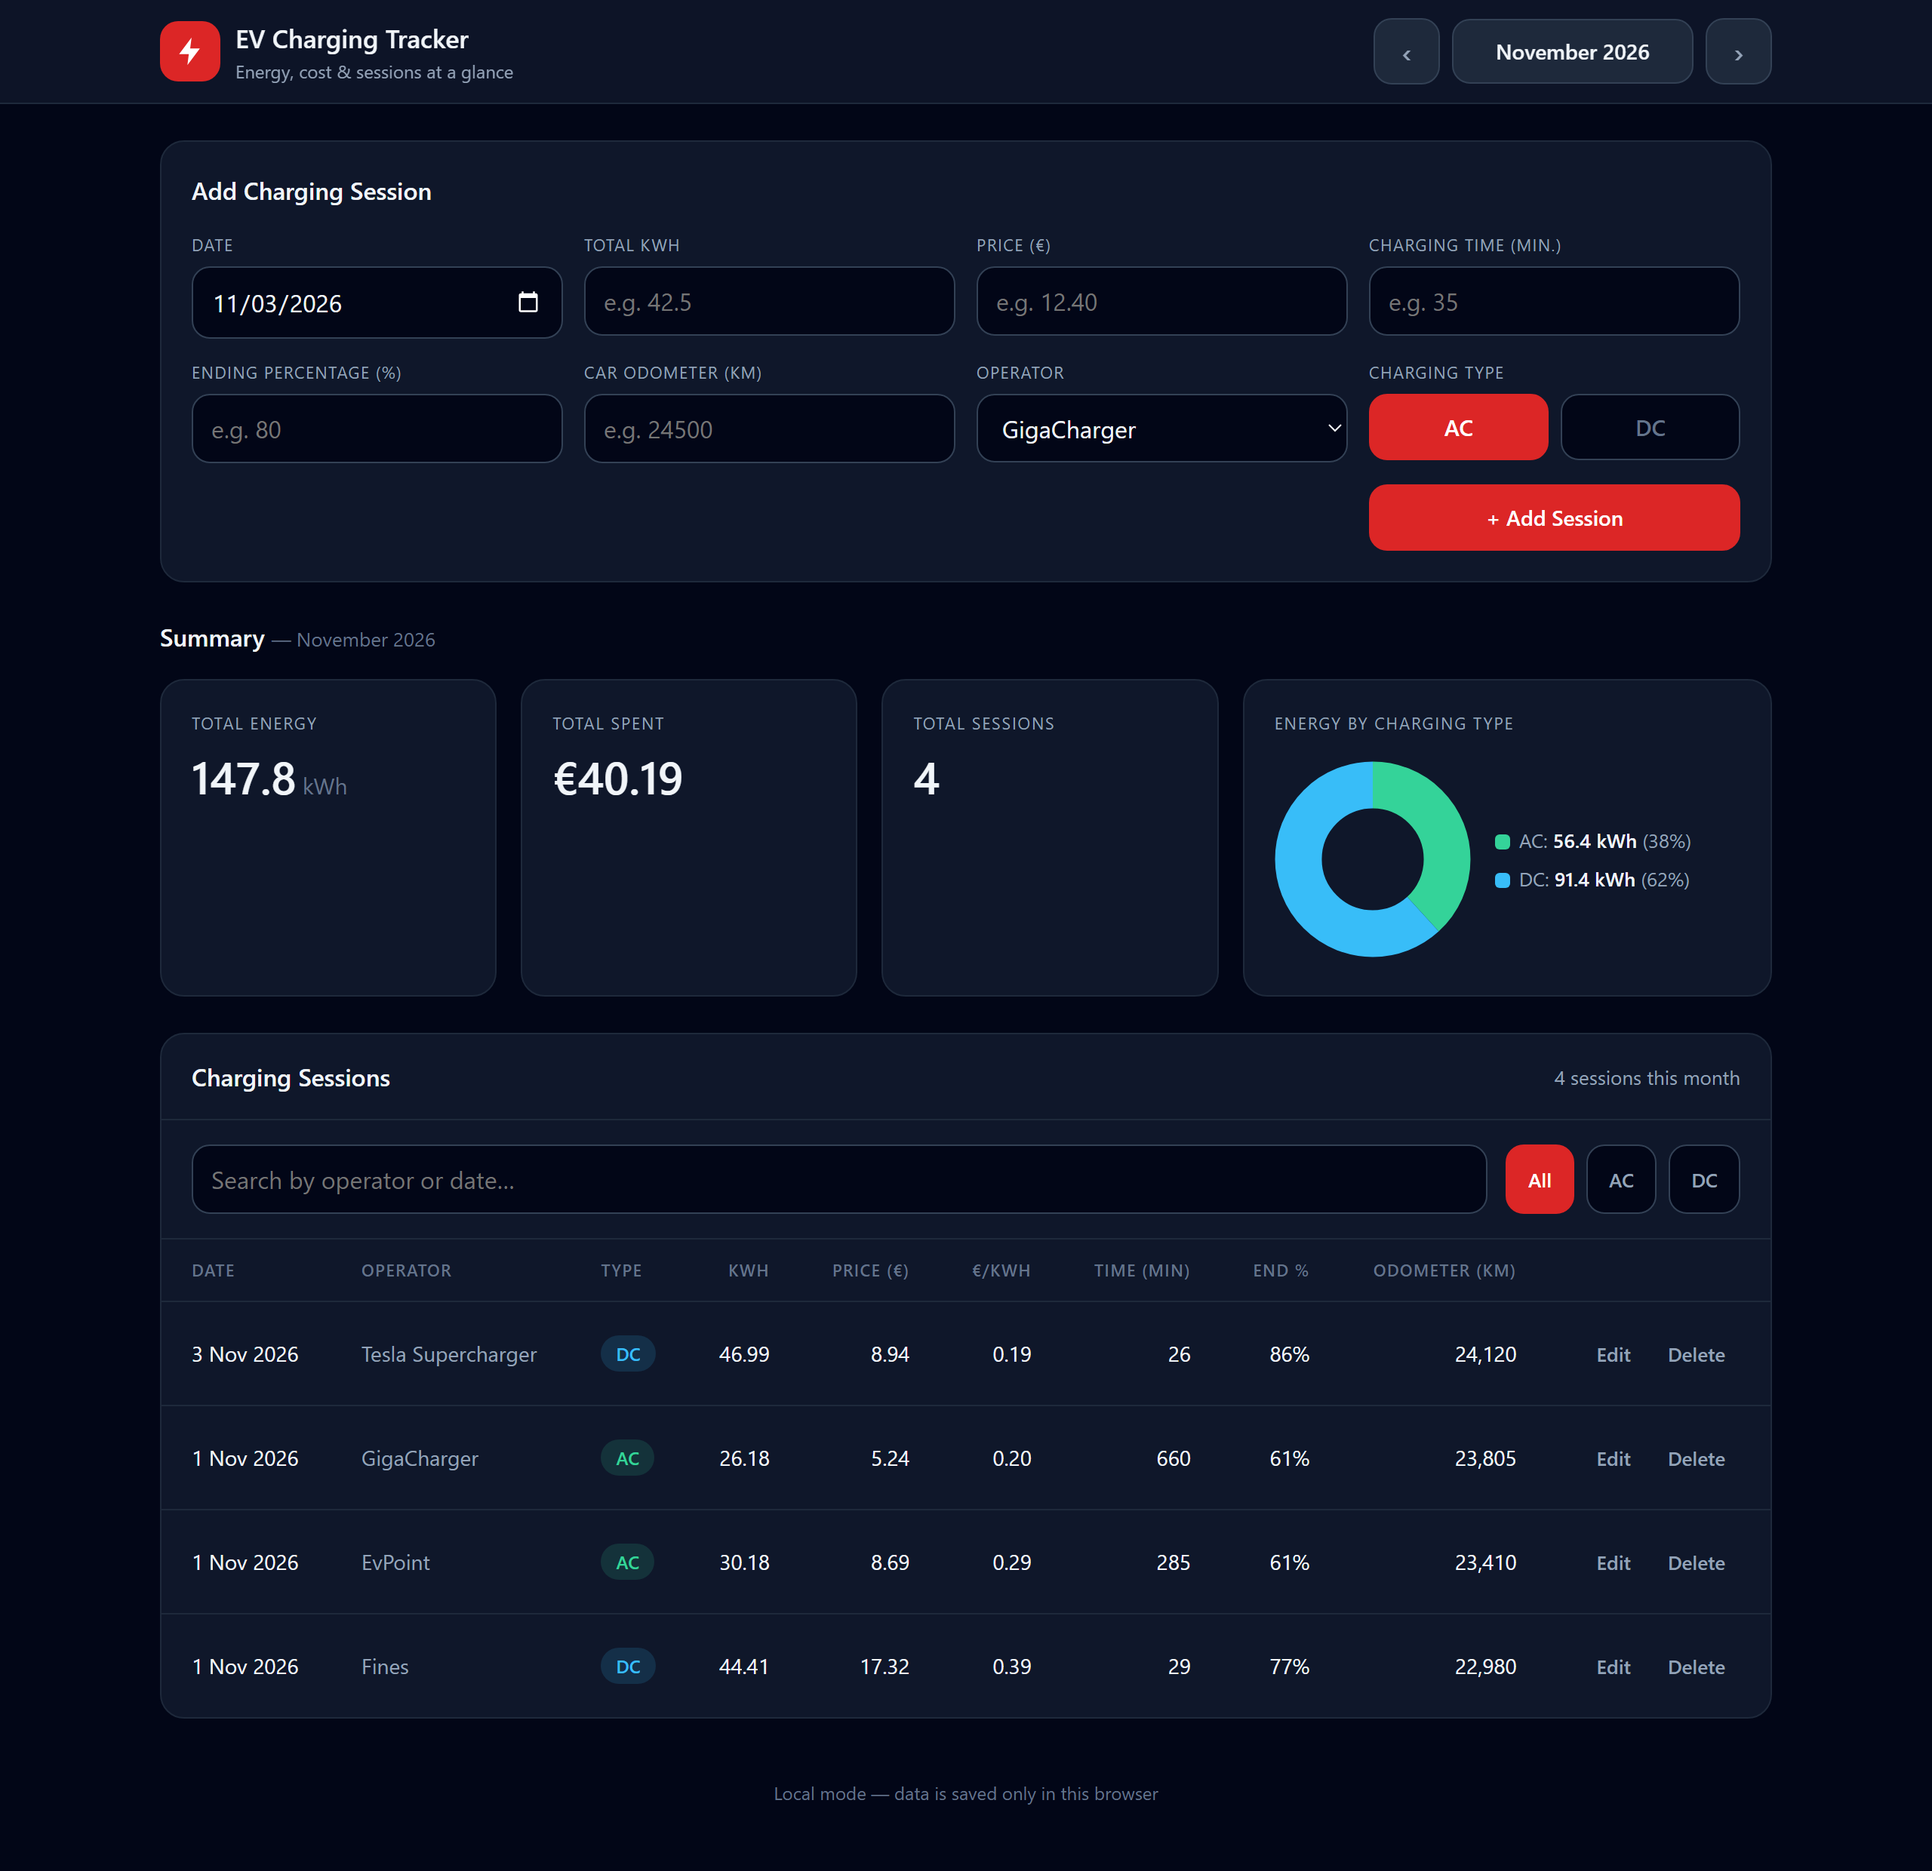
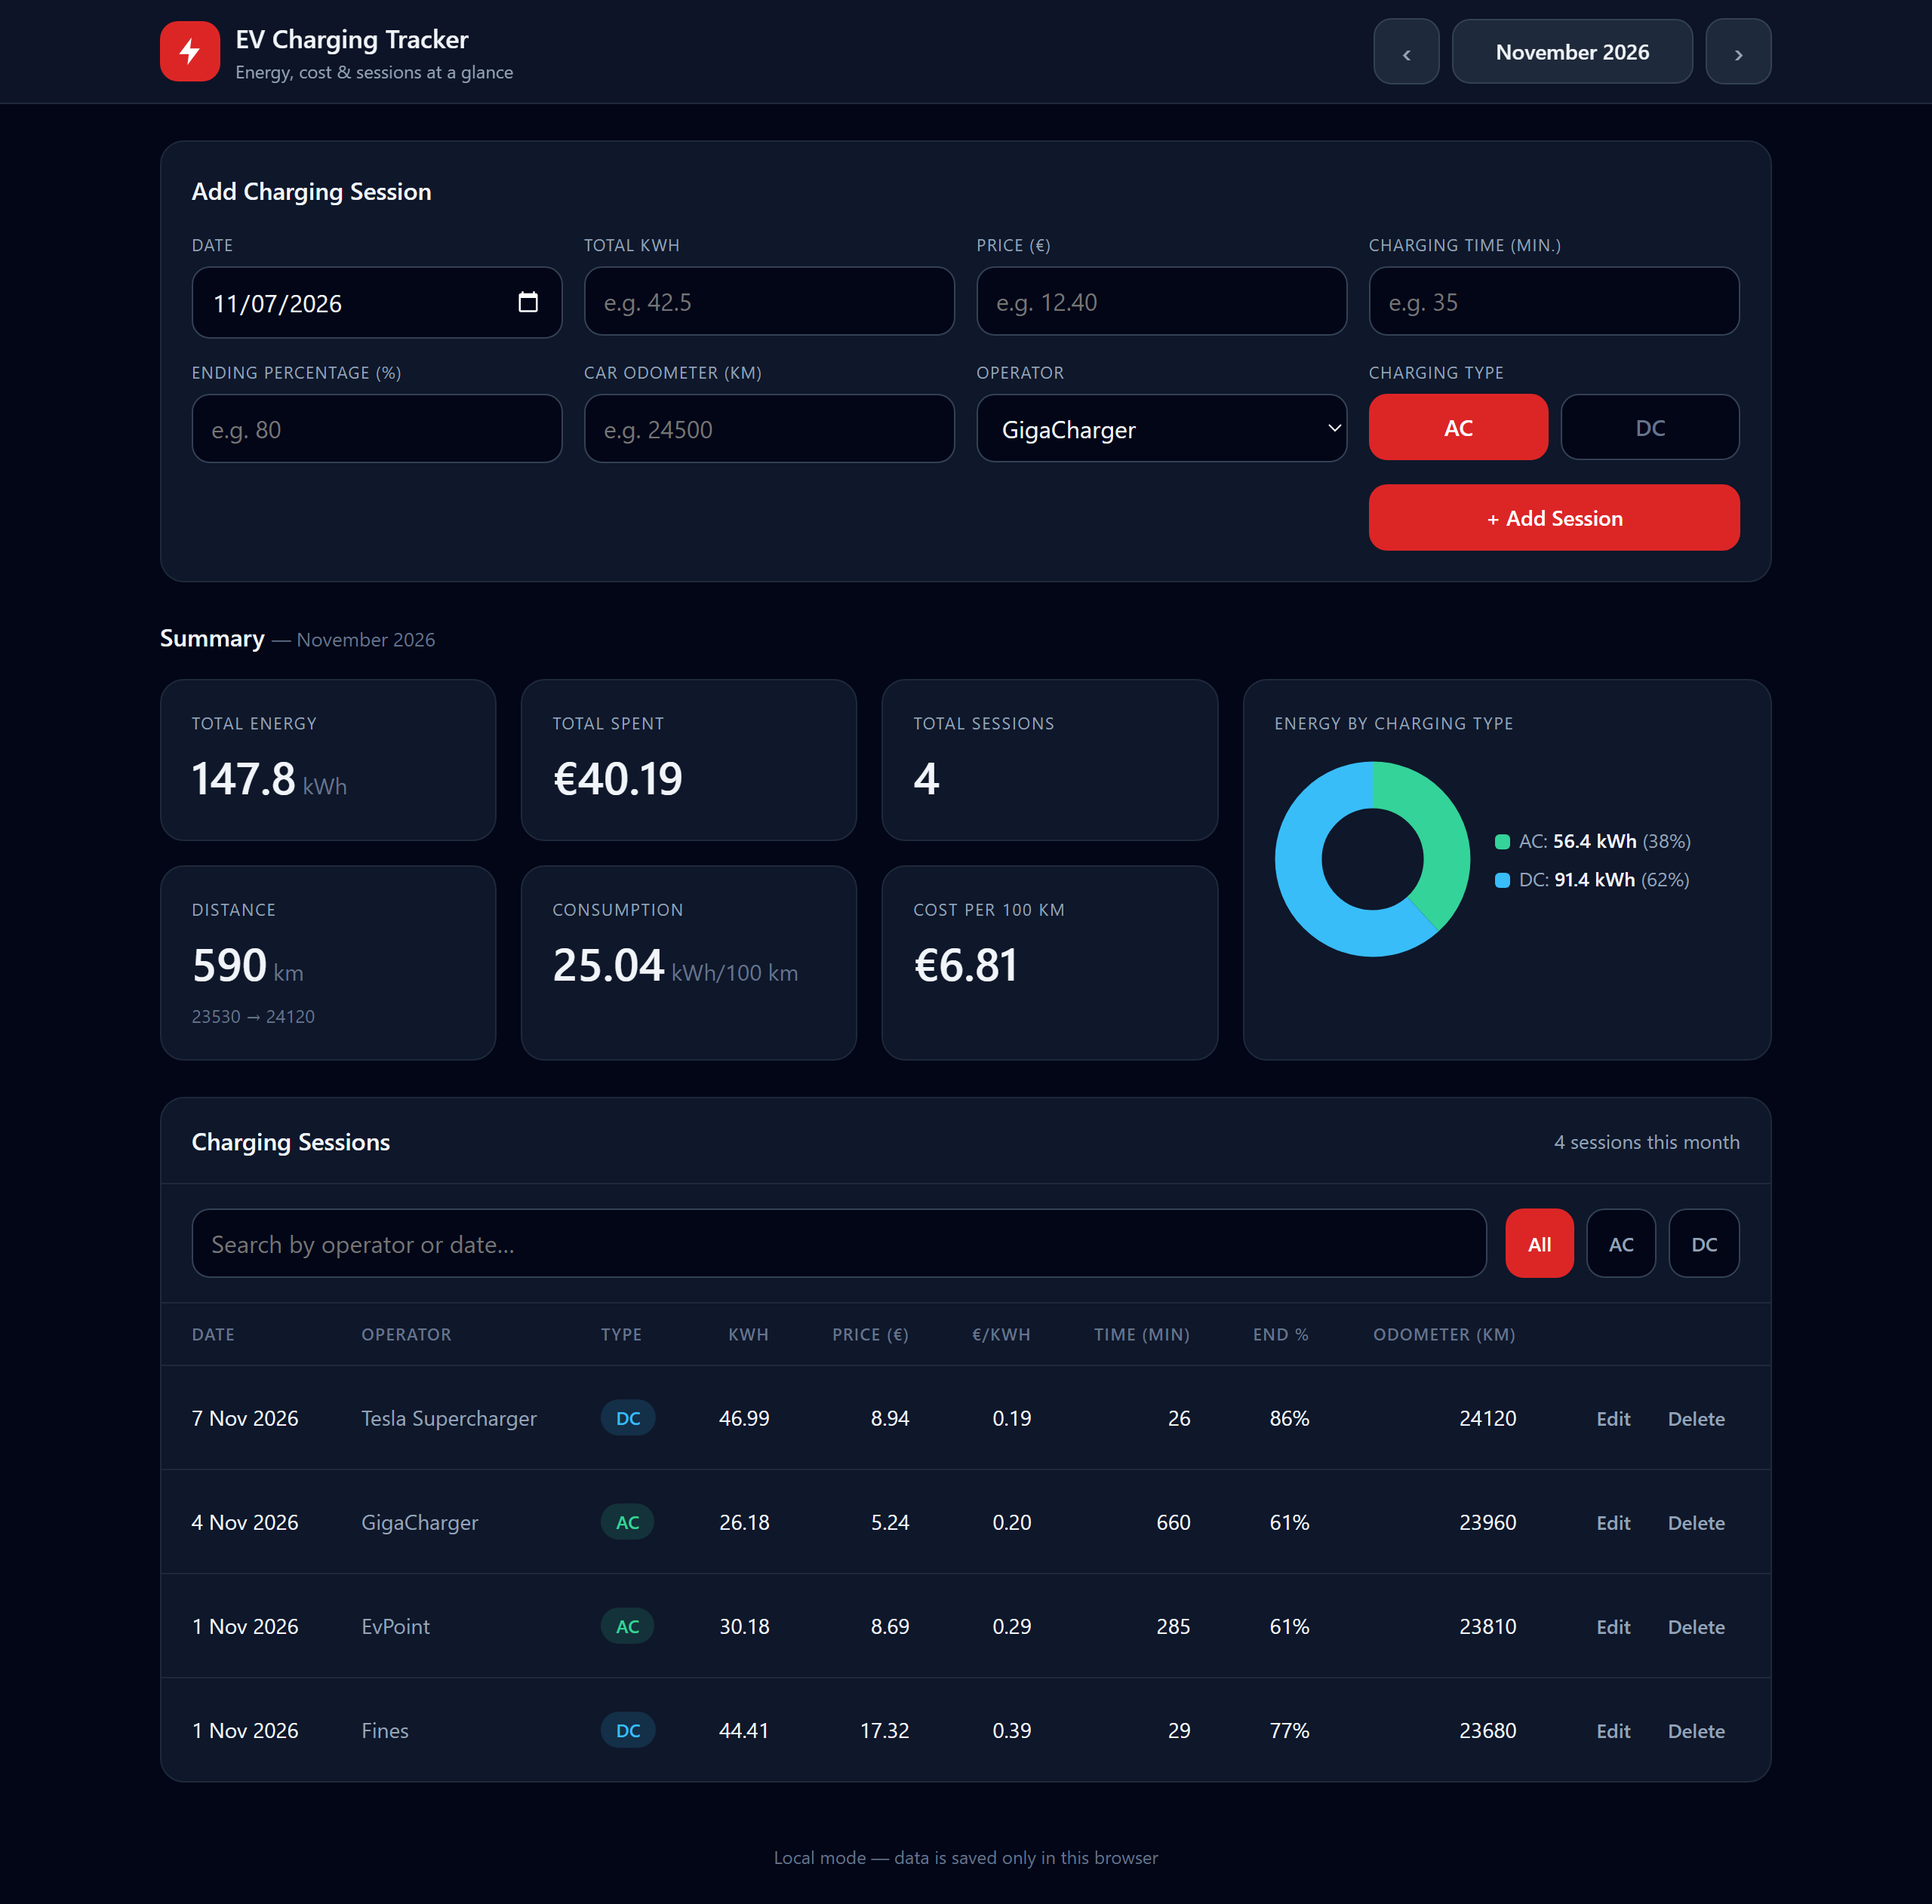
Show monthly distance, consumption and cost per 100 km
Worked out like the monthly tables in the sheet: from the odometer at the last
session of the previous month to the last session of the selected month.
Sample data gets a session in the previous month so local mode shows them too.
README features and screenshots are updated.

diff --git a/dist/Index.html b/dist/Index.html
@@ -199,6 +199,7 @@
   .stat .label { margin-bottom: 4px; }
   .stat .value { font-size: 30px; font-weight: 600; }
   .stat .unit { font-size: 15px; font-weight: 400; color: var(--faint); margin-left: 4px; }
+  .stat .sub { margin-top: 4px; font-size: 12px; color: var(--faint); }
 
   .chart-card .label { margin: 0 0 12px; }
   .chart-body { display: flex; align-items: center; gap: 16px; min-height: 140px; }
@@ -294,8 +295,14 @@
     .header-row { justify-content: center; }
     .month-nav { width: 100%; }
     .month-label { flex: 1; }
-    .form-grid, .stats { grid-template-columns: 1fr; }
+    .form-grid { grid-template-columns: 1fr; }
     .span-2 { grid-column: auto; }
+
+    /* Six summary cards: two per row keeps them short enough to see at a glance */
+    .stats { grid-template-columns: repeat(2, 1fr); gap: 12px; }
+    .stat { padding: 16px; }
+    .stat .value { font-size: 24px; }
+    .stat .unit { display: block; margin-left: 0; font-size: 13px; }
   }
 </style>
 </head>
@@ -392,6 +399,19 @@
         <div class="card stat">
           <p class="label">Total Sessions</p>
           <p class="value" id="stat-count">0</p>
+        </div>
+        <div class="card stat">
+          <p class="label">Distance</p>
+          <p class="value"><span id="stat-km">—</span><span class="unit">km</span></p>
+          <p class="sub" id="stat-km-range"></p>
+        </div>
+        <div class="card stat">
+          <p class="label">Consumption</p>
+          <p class="value"><span id="stat-kwh-100">—</span><span class="unit">kWh/100 km</span></p>
+        </div>
+        <div class="card stat">
+          <p class="label">Cost per 100 km</p>
+          <p class="value" id="stat-cost-100">—</p>
         </div>
       </div>
       <div class="card chart-card">
@@ -510,7 +530,7 @@
       ({ '&': '&amp;', '<': '&lt;', '>': '&gt;', '"': '&quot;', "'": '&#39;' }[c]));
   }
 
-  // ---------- Sample data: all in the current month, only used on first run ----------
+  // ---------- Sample data: the current month plus one session before it, only used on first run ----------
 
   function buildSamples() {
     const today = new Date();
@@ -518,11 +538,14 @@
       const d = new Date(today.getFullYear(), today.getMonth(), Math.max(1, today.getDate() - offset));
       return toISO(d);
     };
+    const lastDayOfPreviousMonth = toISO(new Date(today.getFullYear(), today.getMonth(), 0));
 
     return [
-      { id: 1, date: dayInMonth(9), operator: 'Fines',              type: 'DC', kwh: 44.41, price: 17.32, time: 29,  percent: 77, odometer: 22980 },
-      { id: 2, date: dayInMonth(6), operator: 'EvPoint',            type: 'AC', kwh: 30.18, price: 8.69,  time: 285, percent: 61, odometer: 23410 },
-      { id: 3, date: dayInMonth(3), operator: 'GigaCharger',        type: 'AC', kwh: 26.18, price: 5.24,  time: 660, percent: 61, odometer: 23805 },
+      // The starting point for this month's distance and consumption
+      { id: 0, date: lastDayOfPreviousMonth, operator: 'GigaCharger', type: 'AC', kwh: 28.4, price: 5.68, time: 610, percent: 80, odometer: 23530 },
+      { id: 1, date: dayInMonth(9), operator: 'Fines',              type: 'DC', kwh: 44.41, price: 17.32, time: 29,  percent: 77, odometer: 23680 },
+      { id: 2, date: dayInMonth(6), operator: 'EvPoint',            type: 'AC', kwh: 30.18, price: 8.69,  time: 285, percent: 61, odometer: 23810 },
+      { id: 3, date: dayInMonth(3), operator: 'GigaCharger',        type: 'AC', kwh: 26.18, price: 5.24,  time: 660, percent: 61, odometer: 23960 },
       { id: 4, date: dayInMonth(0), operator: 'Tesla Supercharger', type: 'DC', kwh: 46.99, price: 8.94,  time: 26,  percent: 86, odometer: 24120 }
     ];
   }
@@ -664,9 +687,21 @@
     return b.date.localeCompare(a.date) || (useSheet ? a.id - b.id : b.id - a.id);
   }
 
+  const monthPrefix = () => `${viewYear}-${String(viewMonth + 1).padStart(2, '0')}-`;
+
   function sessionsInMonth() {
-    const prefix = `${viewYear}-${String(viewMonth + 1).padStart(2, '0')}-`;
-    return sessions.filter(s => s.date.startsWith(prefix));
+    return sessions.filter(s => s.date.startsWith(monthPrefix()));
+  }
+
+  // Distance for the selected month, the same way as the monthly tables in the sheet: from the
+  // odometer at the last session before this month to the odometer at the last session in it.
+  // Null when there is no earlier session to start from (the first month).
+  function monthDistance(monthSessions) {
+    const last = [...monthSessions].sort(newestFirst)[0];
+    const before = sessions.filter(s => s.date < monthPrefix() + '01').sort(newestFirst)[0];
+    if (!last || !before || last.odometer <= before.odometer) return null;
+
+    return { start: before.odometer, end: last.odometer, km: last.odometer - before.odometer };
   }
 
   function visibleSessions(monthSessions) {
@@ -689,6 +724,15 @@
     $('stat-kwh').textContent = fmtKwh(kwh);
     $('stat-cost').textContent = fmtMoney.format(cost);
     $('stat-count').textContent = monthSessions.length;
+
+    const dist = monthDistance(monthSessions);
+    const per100 = amount => round2(amount / dist.km * 100).toFixed(2);
+    $('stat-km').textContent = dist ? dist.km : '—';
+    $('stat-km-range').textContent = dist
+      ? `${dist.start} → ${dist.end}`
+      : monthSessions.length ? 'Needs a session from an earlier month' : '';
+    $('stat-kwh-100').textContent = dist ? per100(kwh) : '—';
+    $('stat-cost-100').textContent = dist ? '€' + per100(cost) : '—';
   }
 
   // Pie chart drawn as SVG circle segments, so the app needs no internet connection

diff --git a/src/script.js b/src/script.js
@@ -67,7 +67,7 @@ function escapeHtml(str) {
     ({ '&': '&amp;', '<': '&lt;', '>': '&gt;', '"': '&quot;', "'": '&#39;' }[c]));
 }
 
-// ---------- Sample data: all in the current month, only used on first run ----------
+// ---------- Sample data: the current month plus one session before it, only used on first run ----------
 
 function buildSamples() {
   const today = new Date();
@@ -75,11 +75,14 @@ function buildSamples() {
     const d = new Date(today.getFullYear(), today.getMonth(), Math.max(1, today.getDate() - offset));
     return toISO(d);
   };
+  const lastDayOfPreviousMonth = toISO(new Date(today.getFullYear(), today.getMonth(), 0));
 
   return [
-    { id: 1, date: dayInMonth(9), operator: 'Fines',              type: 'DC', kwh: 44.41, price: 17.32, time: 29,  percent: 77, odometer: 22980 },
-    { id: 2, date: dayInMonth(6), operator: 'EvPoint',            type: 'AC', kwh: 30.18, price: 8.69,  time: 285, percent: 61, odometer: 23410 },
-    { id: 3, date: dayInMonth(3), operator: 'GigaCharger',        type: 'AC', kwh: 26.18, price: 5.24,  time: 660, percent: 61, odometer: 23805 },
+    // The starting point for this month's distance and consumption
+    { id: 0, date: lastDayOfPreviousMonth, operator: 'GigaCharger', type: 'AC', kwh: 28.4, price: 5.68, time: 610, percent: 80, odometer: 23530 },
+    { id: 1, date: dayInMonth(9), operator: 'Fines',              type: 'DC', kwh: 44.41, price: 17.32, time: 29,  percent: 77, odometer: 23680 },
+    { id: 2, date: dayInMonth(6), operator: 'EvPoint',            type: 'AC', kwh: 30.18, price: 8.69,  time: 285, percent: 61, odometer: 23810 },
+    { id: 3, date: dayInMonth(3), operator: 'GigaCharger',        type: 'AC', kwh: 26.18, price: 5.24,  time: 660, percent: 61, odometer: 23960 },
     { id: 4, date: dayInMonth(0), operator: 'Tesla Supercharger', type: 'DC', kwh: 46.99, price: 8.94,  time: 26,  percent: 86, odometer: 24120 }
   ];
 }
@@ -221,9 +224,21 @@ function newestFirst(a, b) {
   return b.date.localeCompare(a.date) || (useSheet ? a.id - b.id : b.id - a.id);
 }
 
+const monthPrefix = () => `${viewYear}-${String(viewMonth + 1).padStart(2, '0')}-`;
+
 function sessionsInMonth() {
-  const prefix = `${viewYear}-${String(viewMonth + 1).padStart(2, '0')}-`;
-  return sessions.filter(s => s.date.startsWith(prefix));
+  return sessions.filter(s => s.date.startsWith(monthPrefix()));
+}
+
+// Distance for the selected month, the same way as the monthly tables in the sheet: from the
+// odometer at the last session before this month to the odometer at the last session in it.
+// Null when there is no earlier session to start from (the first month).
+function monthDistance(monthSessions) {
+  const last = [...monthSessions].sort(newestFirst)[0];
+  const before = sessions.filter(s => s.date < monthPrefix() + '01').sort(newestFirst)[0];
+  if (!last || !before || last.odometer <= before.odometer) return null;
+
+  return { start: before.odometer, end: last.odometer, km: last.odometer - before.odometer };
 }
 
 function visibleSessions(monthSessions) {
@@ -246,6 +261,15 @@ function renderStats(monthSessions) {
   $('stat-kwh').textContent = fmtKwh(kwh);
   $('stat-cost').textContent = fmtMoney.format(cost);
   $('stat-count').textContent = monthSessions.length;
+
+  const dist = monthDistance(monthSessions);
+  const per100 = amount => round2(amount / dist.km * 100).toFixed(2);
+  $('stat-km').textContent = dist ? dist.km : '—';
+  $('stat-km-range').textContent = dist
+    ? `${dist.start} → ${dist.end}`
+    : monthSessions.length ? 'Needs a session from an earlier month' : '';
+  $('stat-kwh-100').textContent = dist ? per100(kwh) : '—';
+  $('stat-cost-100').textContent = dist ? '€' + per100(cost) : '—';
 }
 
 // Pie chart drawn as SVG circle segments, so the app needs no internet connection

diff --git a/src/index.html b/src/index.html
@@ -102,6 +102,19 @@
           <p class="label">Total Sessions</p>
           <p class="value" id="stat-count">0</p>
         </div>
+        <div class="card stat">
+          <p class="label">Distance</p>
+          <p class="value"><span id="stat-km">—</span><span class="unit">km</span></p>
+          <p class="sub" id="stat-km-range"></p>
+        </div>
+        <div class="card stat">
+          <p class="label">Consumption</p>
+          <p class="value"><span id="stat-kwh-100">—</span><span class="unit">kWh/100 km</span></p>
+        </div>
+        <div class="card stat">
+          <p class="label">Cost per 100 km</p>
+          <p class="value" id="stat-cost-100">—</p>
+        </div>
       </div>
       <div class="card chart-card">
         <p class="label">Energy by Charging Type</p>

diff --git a/src/media.css b/src/media.css
@@ -17,6 +17,12 @@
   .header-row { justify-content: center; }
   .month-nav { width: 100%; }
   .month-label { flex: 1; }
-  .form-grid, .stats { grid-template-columns: 1fr; }
+  .form-grid { grid-template-columns: 1fr; }
   .span-2 { grid-column: auto; }
+
+  /* Six summary cards: two per row keeps them short enough to see at a glance */
+  .stats { grid-template-columns: repeat(2, 1fr); gap: 12px; }
+  .stat { padding: 16px; }
+  .stat .value { font-size: 24px; }
+  .stat .unit { display: block; margin-left: 0; font-size: 13px; }
 }

diff --git a/src/style.css b/src/style.css
@@ -190,6 +190,7 @@ h2 small { color: var(--faint); font-weight: 400; font-size: 13px; }
 .stat .label { margin-bottom: 4px; }
 .stat .value { font-size: 30px; font-weight: 600; }
 .stat .unit { font-size: 15px; font-weight: 400; color: var(--faint); margin-left: 4px; }
+.stat .sub { margin-top: 4px; font-size: 12px; color: var(--faint); }
 
 .chart-card .label { margin: 0 0 12px; }
 .chart-body { display: flex; align-items: center; gap: 16px; min-height: 140px; }

diff --git a/README.md b/README.md
@@ -10,6 +10,7 @@ Log your EV charging sessions from your phone right after charging, or from your
 
 <p>
   <img src="docs/screenshots/phone-form.png" alt="Adding a session on a phone" width="260">
+  <img src="docs/screenshots/phone-summary.png" alt="Monthly summary on a phone" width="260">
   <img src="docs/screenshots/phone-list.png" alt="Session list on a phone" width="260">
 </p>
 
@@ -19,6 +20,7 @@ Log your EV charging sessions from your phone right after charging, or from your
 
 - Add, edit and delete sessions: date, operator, AC/DC, kWh, price, charging time, ending %, odometer
 - Monthly view with summary cards (energy, money spent, number of sessions) and an AC/DC chart
+- Distance, consumption (kWh/100 km) and cost per 100 km for each month, worked out from the odometer: from the last session of the previous month to the last session of this one
 - Search by operator or date and filter by AC / DC
 - Price per kWh is calculated for you
 - Made for the phone: big buttons, and you can type `5,10` or `5.10`
